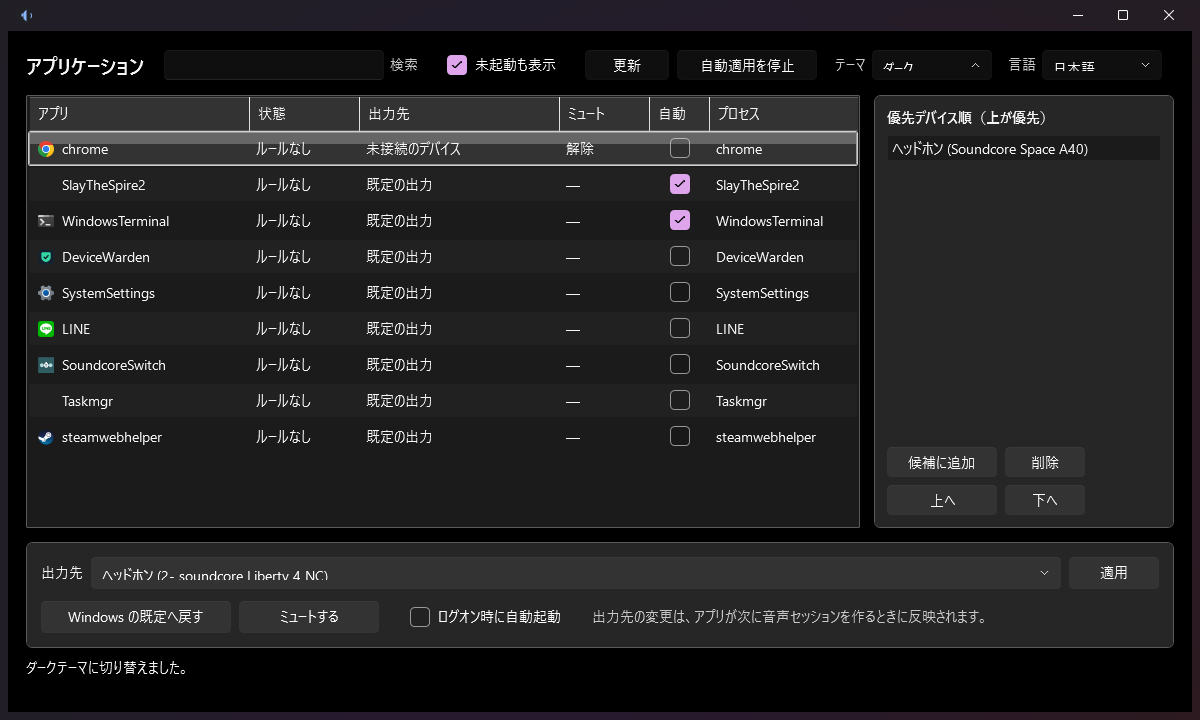
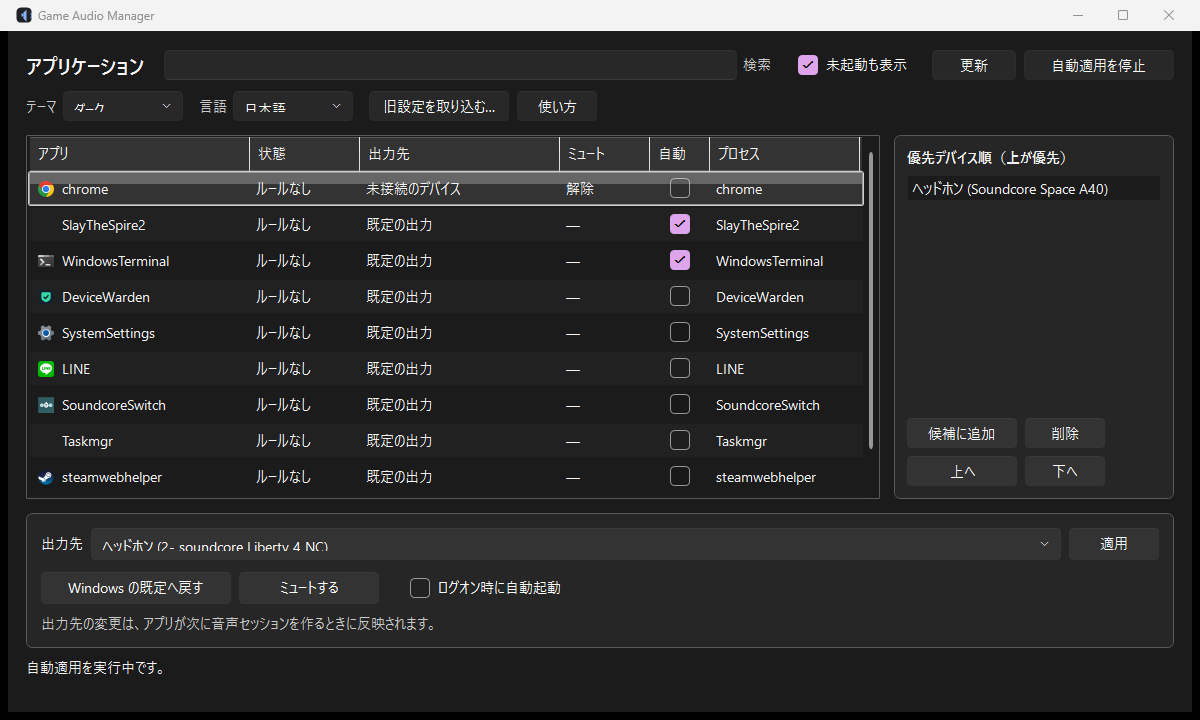
fix: stop the header and hint from clipping at narrow widths

diff --git a/src/GameAudioManager.App/MainWindow.xaml b/src/GameAudioManager.App/MainWindow.xaml
@@ -6,7 +6,7 @@
         Title="Game Audio Manager"
         Icon="Assets/app.ico"
         Height="720" Width="1200"
-        MinHeight="520" MinWidth="920"
+        MinHeight="560" MinWidth="1000"
         UseLayoutRounding="True"
         TextOptions.TextFormattingMode="Display"
         Background="{DynamicResource AppBackgroundBrush}"
@@ -24,44 +24,69 @@
         </Grid.ColumnDefinitions>
 
         <!-- header -->
-        <StackPanel Grid.Row="0" Grid.ColumnSpan="2" Orientation="Horizontal" Margin="0,0,0,14">
-            <TextBlock Text="{Binding [Header], Source={x:Static app:Localization.Instance}}"
+        <!--
+            Header is split over two rows and the secondary controls live in a WrapPanel:
+            a single horizontal StackPanel overflowed and clipped the title at narrow
+            widths.
+        -->
+        <Grid Grid.Row="0" Grid.ColumnSpan="2" Margin="0,0,0,14">
+            <Grid.RowDefinitions>
+                <RowDefinition Height="Auto" />
+                <RowDefinition Height="Auto" />
+            </Grid.RowDefinitions>
+            <Grid.ColumnDefinitions>
+                <ColumnDefinition Width="Auto" />
+                <ColumnDefinition Width="*" />
+                <ColumnDefinition Width="Auto" />
+            </Grid.ColumnDefinitions>
+
+            <TextBlock Grid.Row="0" Grid.Column="0"
+                       Text="{Binding [Header], Source={x:Static app:Localization.Instance}}"
                        FontSize="20" FontWeight="SemiBold" VerticalAlignment="Center" />
-            <TextBox x:Name="FilterBox" Width="220" Height="30" Margin="20,0,0,0"
-                     VerticalContentAlignment="Center"
-                     Text="{Binding FilterText, UpdateSourceTrigger=PropertyChanged}"
-                     ToolTip="{Binding [Search], Source={x:Static app:Localization.Instance}}" />
-            <TextBlock Text="{Binding [Search], Source={x:Static app:Localization.Instance}}"
-                       Margin="6,0,0,0" VerticalAlignment="Center"
-                       Foreground="{DynamicResource AppSubtleBrush}" />
-            <CheckBox Content="{Binding [ShowNotRunning], Source={x:Static app:Localization.Instance}}"
-                      Margin="18,0,0,0" VerticalAlignment="Center"
-                      IsChecked="{Binding ShowNotRunning, Mode=TwoWay}" />
-            <ui:Button x:Name="RefreshButton" Margin="18,0,0,0" Height="30" MinWidth="84"
-                       Content="{Binding [Refresh], Source={x:Static app:Localization.Instance}}"
-                       Click="OnRefresh" />
-            <ui:Button x:Name="WatcherButton" Margin="8,0,0,0" Height="30" MinWidth="140"
-                       Click="OnToggleWatcher" />
 
-            <TextBlock Text="{Binding [Theme], Source={x:Static app:Localization.Instance}}"
-                       Margin="18,0,6,0" VerticalAlignment="Center"
-                       Foreground="{DynamicResource AppSubtleBrush}" />
-            <ComboBox x:Name="ThemeCombo" Width="120" Height="30" Margin="0"
-                      VerticalContentAlignment="Center"
-                      SelectionChanged="OnThemeChanged" />
+            <DockPanel Grid.Row="0" Grid.Column="1" Margin="20,0,0,0" LastChildFill="True">
+                <TextBlock DockPanel.Dock="Right" VerticalAlignment="Center" Margin="6,0,0,0"
+                           Foreground="{DynamicResource AppSubtleBrush}"
+                           Text="{Binding [Search], Source={x:Static app:Localization.Instance}}" />
+                <TextBox x:Name="FilterBox" MinWidth="120" Height="30"
+                         VerticalContentAlignment="Center"
+                         Text="{Binding FilterText, UpdateSourceTrigger=PropertyChanged}"
+                         ToolTip="{Binding [Search], Source={x:Static app:Localization.Instance}}" />
+            </DockPanel>
 
-            <TextBlock Text="{Binding [Language], Source={x:Static app:Localization.Instance}}"
-                       Margin="16,0,6,0" VerticalAlignment="Center"
-                       Foreground="{DynamicResource AppSubtleBrush}" />
-            <ComboBox x:Name="LanguageCombo" Width="120" Height="30"
-                      VerticalContentAlignment="Center"
-                      SelectionChanged="OnLanguageChanged" />
+            <StackPanel Grid.Row="0" Grid.Column="2" Orientation="Horizontal" Margin="16,0,0,0">
+                <CheckBox VerticalAlignment="Center"
+                          Content="{Binding [ShowNotRunning], Source={x:Static app:Localization.Instance}}"
+                          IsChecked="{Binding ShowNotRunning, Mode=TwoWay}" />
+                <ui:Button x:Name="RefreshButton" Margin="14,0,0,0" Height="30" MinWidth="84"
+                           Content="{Binding [Refresh], Source={x:Static app:Localization.Instance}}"
+                           Click="OnRefresh" />
+                <ui:Button x:Name="WatcherButton" Margin="8,0,0,0" Height="30" MinWidth="150"
+                           Click="OnToggleWatcher" />
+            </StackPanel>
 
-            <ui:Button Content="{Binding [ImportLegacy], Source={x:Static app:Localization.Instance}}"
-                       Margin="12,0,0,0" Height="30" Click="OnImportLegacy" />
-            <ui:Button Content="{Binding [Help], Source={x:Static app:Localization.Instance}}"
-                       Margin="8,0,0,0" Height="30" MinWidth="80" Click="OnOpenHelp" />
-        </StackPanel>
+            <!-- Secondary controls wrap instead of clipping. -->
+            <WrapPanel Grid.Row="1" Grid.Column="0" Grid.ColumnSpan="3" Margin="0,10,0,0">
+                <TextBlock VerticalAlignment="Center" Margin="0,0,6,0"
+                           Foreground="{DynamicResource AppSubtleBrush}"
+                           Text="{Binding [Theme], Source={x:Static app:Localization.Instance}}" />
+                <ComboBox x:Name="ThemeCombo" Width="120" Height="30"
+                          VerticalContentAlignment="Center"
+                          SelectionChanged="OnThemeChanged" />
+                <TextBlock VerticalAlignment="Center" Margin="16,0,6,0"
+                           Foreground="{DynamicResource AppSubtleBrush}"
+                           Text="{Binding [Language], Source={x:Static app:Localization.Instance}}" />
+                <ComboBox x:Name="LanguageCombo" Width="120" Height="30"
+                          VerticalContentAlignment="Center"
+                          SelectionChanged="OnLanguageChanged" />
+                <ui:Button Margin="16,0,0,0" Height="30" MinWidth="140"
+                           Content="{Binding [ImportLegacy], Source={x:Static app:Localization.Instance}}"
+                           Click="OnImportLegacy" />
+                <ui:Button Margin="8,0,0,0" Height="30" MinWidth="80"
+                           Content="{Binding [Help], Source={x:Static app:Localization.Instance}}"
+                           Click="OnOpenHelp" />
+            </WrapPanel>
+        </Grid>
 
         <!-- list -->
         <ListView Grid.Row="1" Grid.Column="0"
@@ -118,7 +143,7 @@
         </ListView>
 
         <!-- priority editor -->
-        <Border Grid.Row="1" Grid.Column="1" Width="300" Margin="14,0,0,0" Padding="12"
+        <Border Grid.Row="1" Grid.Column="1" Width="280" Margin="14,0,0,0" Padding="12"
                 BorderThickness="1" CornerRadius="6"
                 Background="{DynamicResource AppPanelBrush}"
                 BorderBrush="{DynamicResource AppBorderBrush}">
@@ -166,6 +191,7 @@
                 <Grid.RowDefinitions>
                     <RowDefinition Height="Auto" />
                     <RowDefinition Height="Auto" />
+                    <RowDefinition Height="Auto" />
                 </Grid.RowDefinitions>
                 <Grid.ColumnDefinitions>
                     <ColumnDefinition Width="Auto" />
@@ -192,10 +218,13 @@
                     <CheckBox Margin="20,0,0,0" VerticalAlignment="Center"
                               Content="{Binding [AutoStartWithWindows], Source={x:Static app:Localization.Instance}}"
                               IsChecked="{Binding AutoStartWithWindows, Mode=TwoWay}" />
-                    <TextBlock Margin="20,0,0,0" VerticalAlignment="Center" TextWrapping="Wrap"
-                               Foreground="{DynamicResource AppSubtleBrush}"
-                               Text="{Binding [RoutingHint], Source={x:Static app:Localization.Instance}}" />
                 </StackPanel>
+
+                <!-- Own row so the hint wraps instead of being clipped at narrow widths. -->
+                <TextBlock Grid.Row="2" Grid.Column="0" Grid.ColumnSpan="3" Margin="0,10,0,0"
+                           TextWrapping="Wrap"
+                           Foreground="{DynamicResource AppSubtleBrush}"
+                           Text="{Binding [RoutingHint], Source={x:Static app:Localization.Instance}}" />
             </Grid>
         </Border>
 
@@ -204,4 +233,5 @@
                    TextWrapping="Wrap" MinHeight="36" VerticalAlignment="Top" />
     </Grid>
 </Window>
+
 
